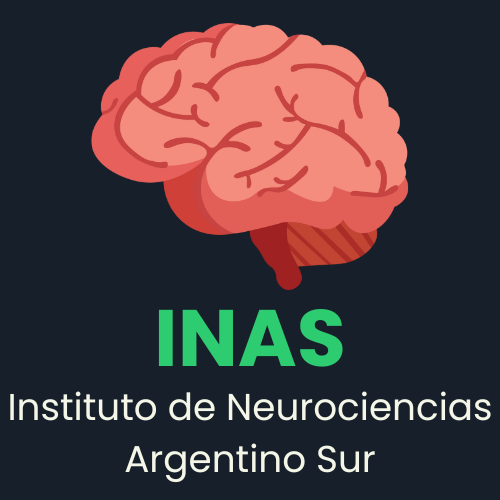
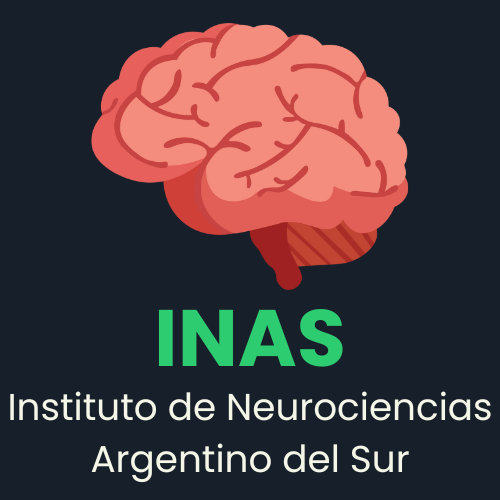
Add files via upload

Changed region(s): [[0.18, 0.87, 0.57, 0.99], [0.6, 0.87, 0.81, 0.96]]

diff --git a/index.html b/index.html
@@ -32,7 +32,7 @@
             <button class="cerrar-popup" onclick="cerrarPopup()">X</button>
             <img src="img/popup2.png" alt="Logo">
             <h1>INAS</h1>
-            <p>Bienvenidos al Instituto Neuropsiquiátrico Argentino del Sur.</p>
+            <p>Bienvenidos al <span style="color: #2ecc71;">I</span>stituto de <span style="color: #2ecc71;">N</span>eurociencias <span style="color: #2ecc71;">A</span>rgentino del <span style="color: #2ecc71;">S</span>ur.</p>
             <p>¡Gracias por visitarnos!</p>
             
         </div>
